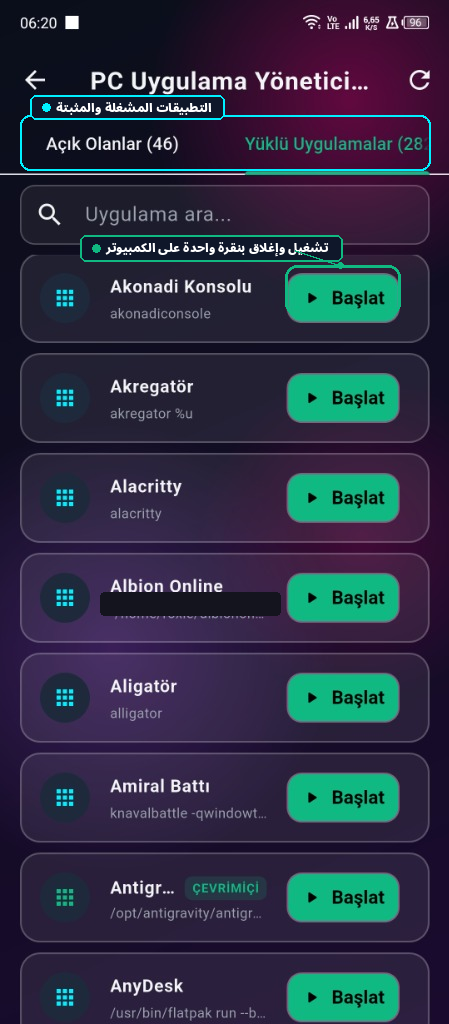
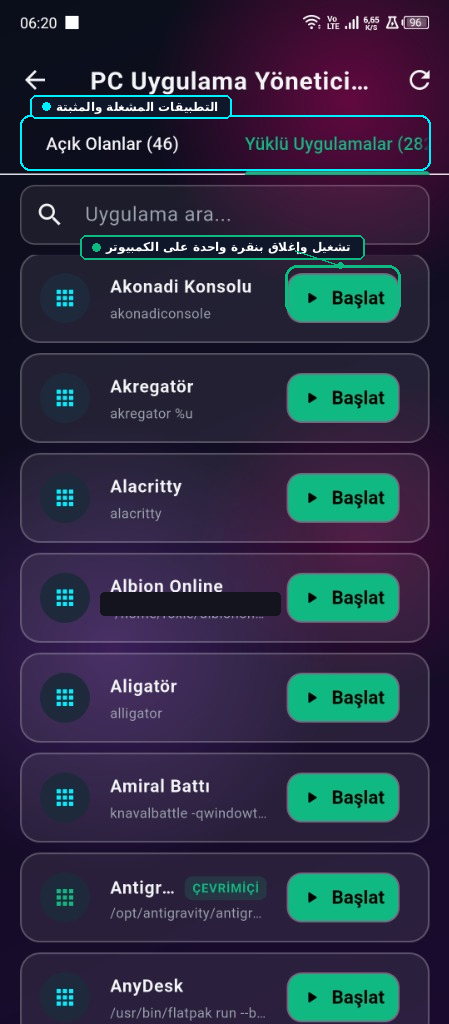
fix(docs): fix Arabic typography and missing Latin glyphs in screenshots

Changed region(s): [[0.1871, 0.2188, 0.8107, 0.2812], [0.0935, 0.0938, 0.5301, 0.125]]

diff --git a/scripts/generate_annotated_screenshots.py b/scripts/generate_annotated_screenshots.py
@@ -149,7 +149,7 @@ def get_font(size, lang='en'):
     if lang in ['zh', 'ja']:
         font_path = '/usr/share/fonts/noto-cjk/NotoSansCJK-Bold.ttc'
     elif lang == 'ar':
-        font_path = '/usr/share/fonts/noto/NotoSansArabic-Black.ttf'
+        font_path = '/usr/share/fonts/TTF/DejaVuSans-Bold.ttf'
     else:
         font_path = '/usr/share/fonts/noto/NotoSans-Regular.ttf'
     try:
